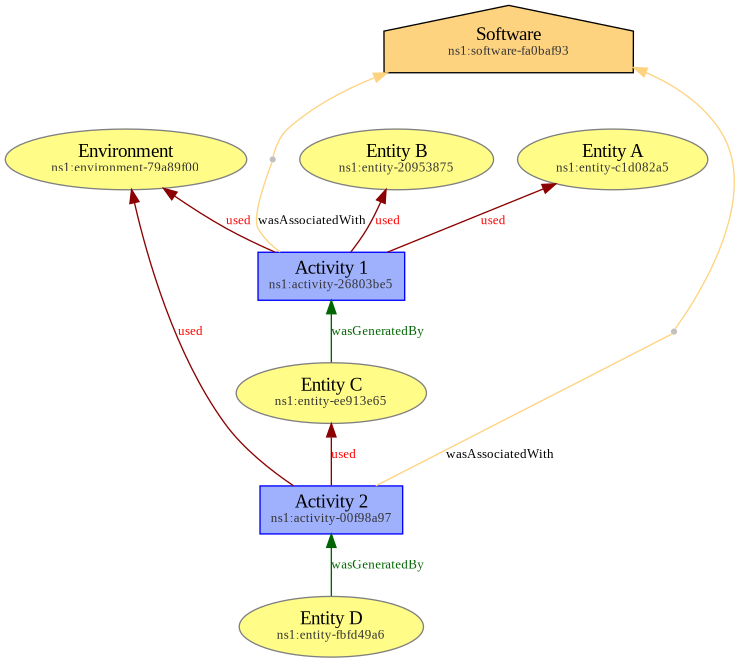
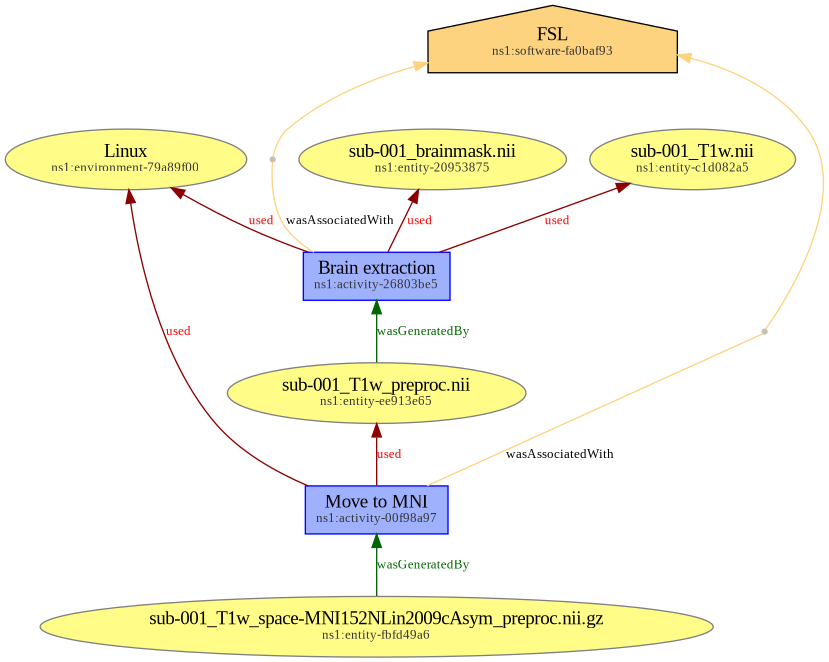
Provenance example graph with neuro context

diff --git a/src/modality-agnostic-files/provenance.md b/src/modality-agnostic-files/provenance.md
@@ -45,7 +45,7 @@ This part of the BIDS specification is aimed at describing the provenance of a B
 Provenance records are described as JSON objects in BIDS. This is detailed in the [Provenance files section](#provenance-files).
 
 !!! example
-    The following graph represents examples of links between provenance records. In this example, `Entity A` and `Entity B` are files used by `Activity 1` to generate another file: `Entity C`. `Activity 1` and `Activity 2` were associated with a `Software` and used `Environment` as a software environment.
+    The following graph represents examples of links between provenance records. In this example, `Entities` *sub-001_brainmask.nii* and *sub-001_T1w.nii* represent files used by `Activity` *Brain extraction* to generate another file represented by `Entity` *sub-001_T1w_preproc.nii*. `Activities` *Brain extraction* and *Move to MNI* were associated with the `Software` *FSL* and used `Environment` *Linux* as a software environment.
     ![](../images/provenance_definitions_graph.png)
 
 **Provenance group**: refers to a collection of provenance records corresponding to a consistent set of processings. Defining multiple provenance groups is appropriate when separate sets of processings have been performed on data, and that they differ in purpose or chronology.
